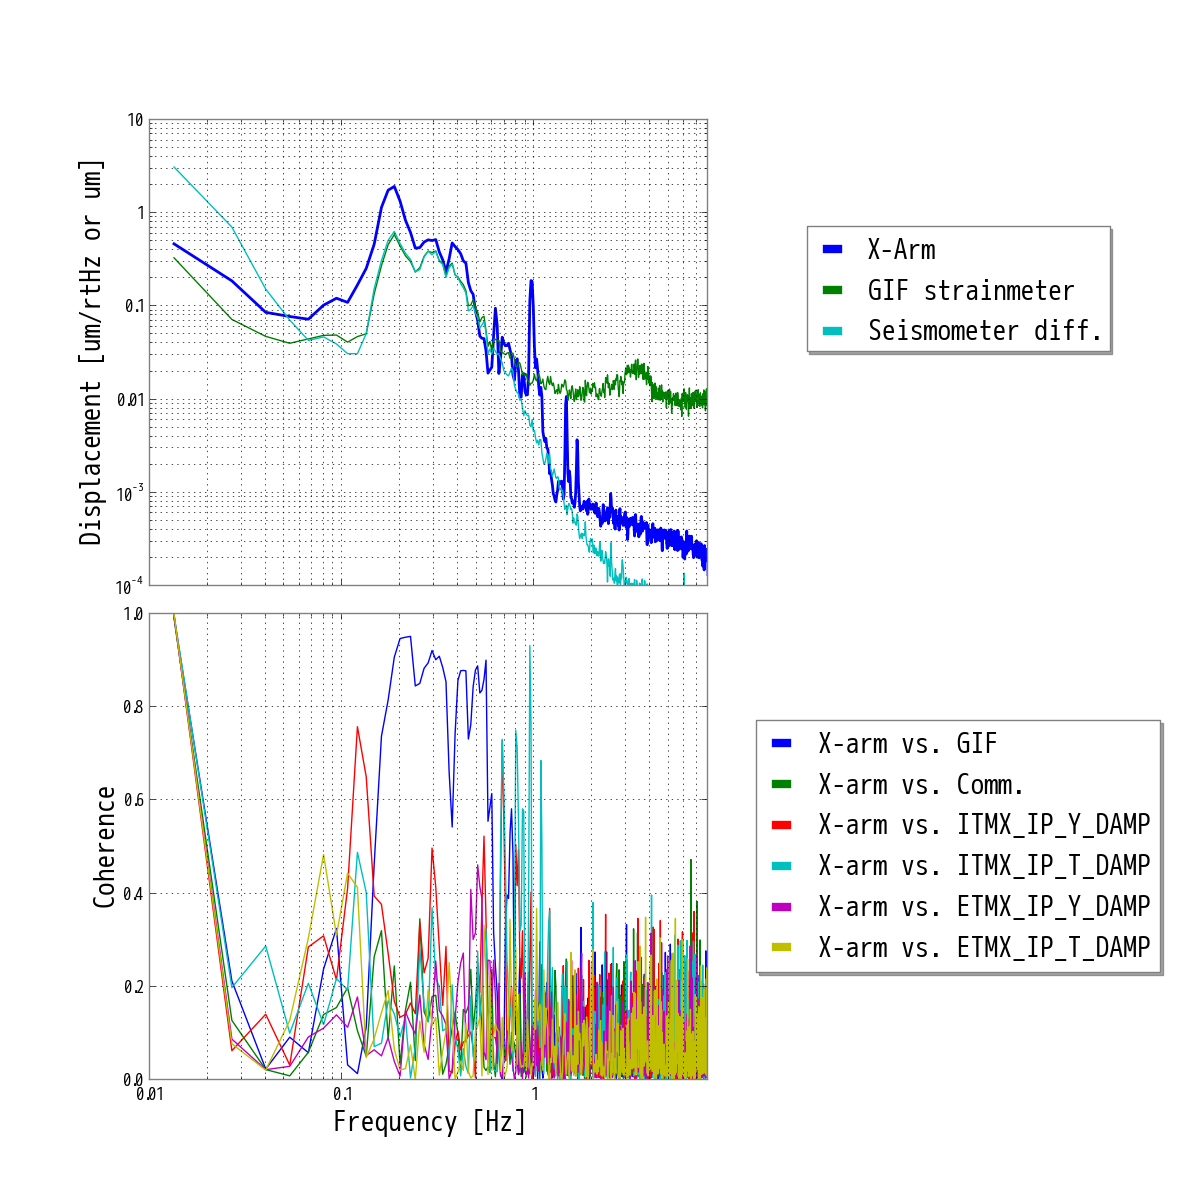
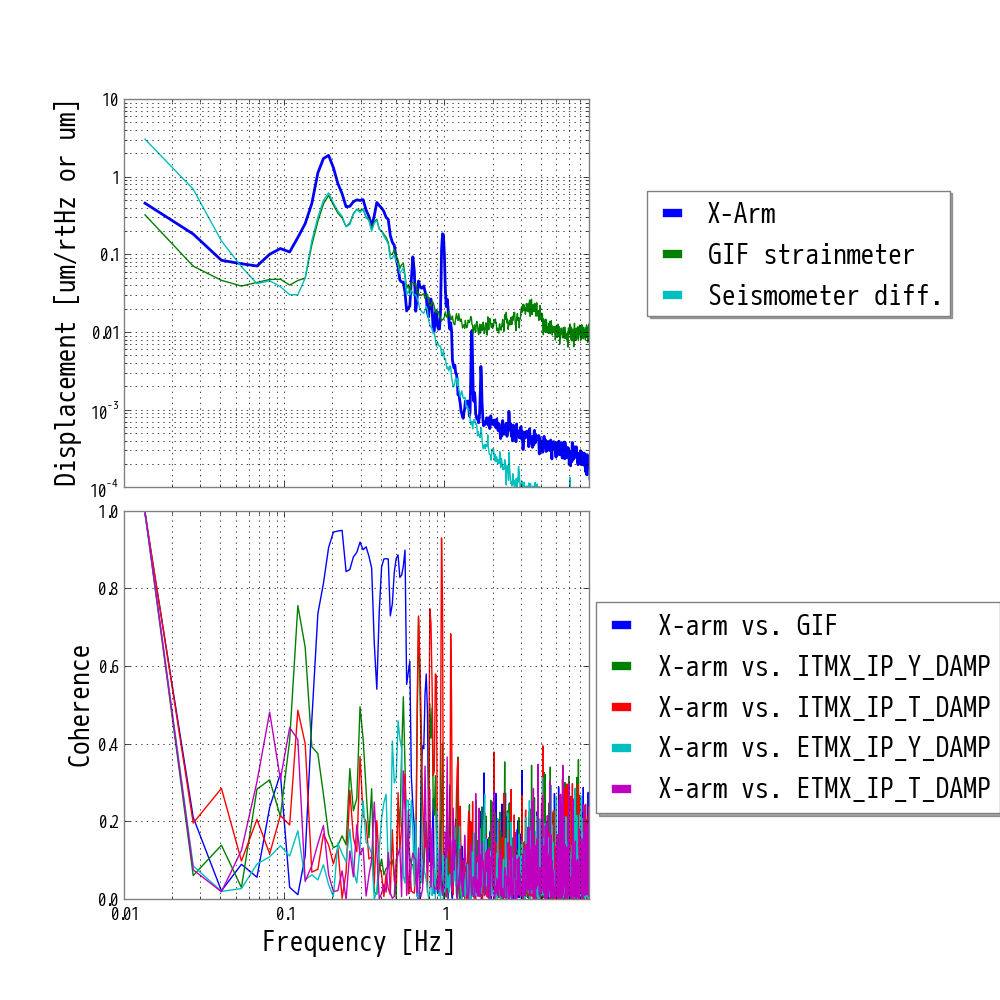
Update

diff --git a/alcs/sensor_correction_trial/main.py b/alcs/sensor_correction_trial/main.py
@@ -190,7 +190,7 @@ plt.close()
 
 
 # plot
-fig, (ax1,ax2) = plt.subplots(2,1,figsize=(11,11),sharex=True)
+fig, (ax1,ax2) = plt.subplots(2,1,figsize=(10,10),sharex=True)
 plt.subplots_adjust(hspace=0.06)
 #ax1.set_title(hoge,fontsize=40)
 ax1.loglog(xarm,label='X-Arm',color='b',linewidth=2)
